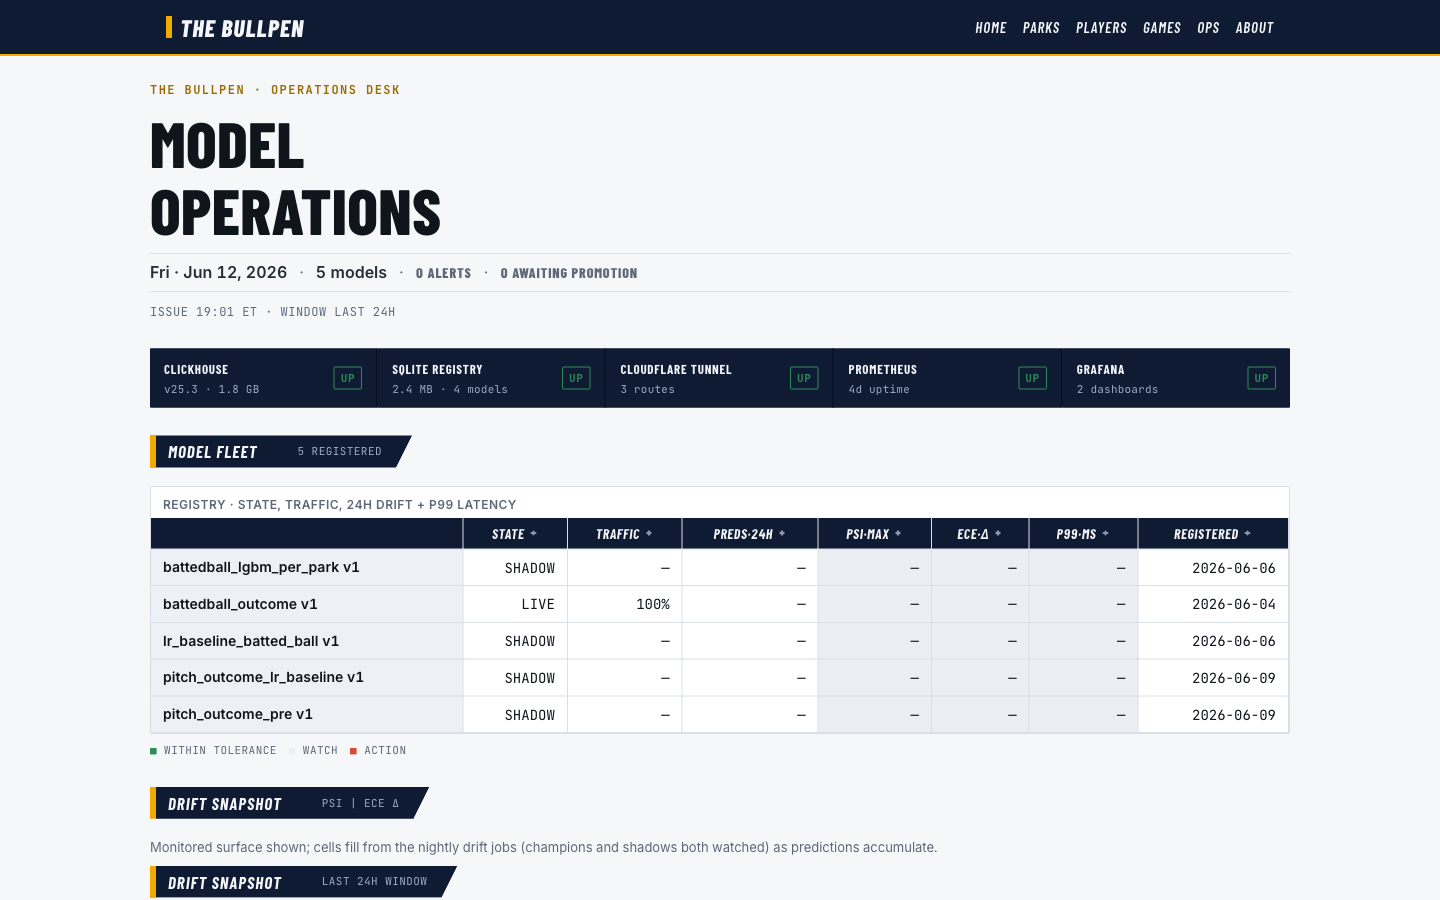
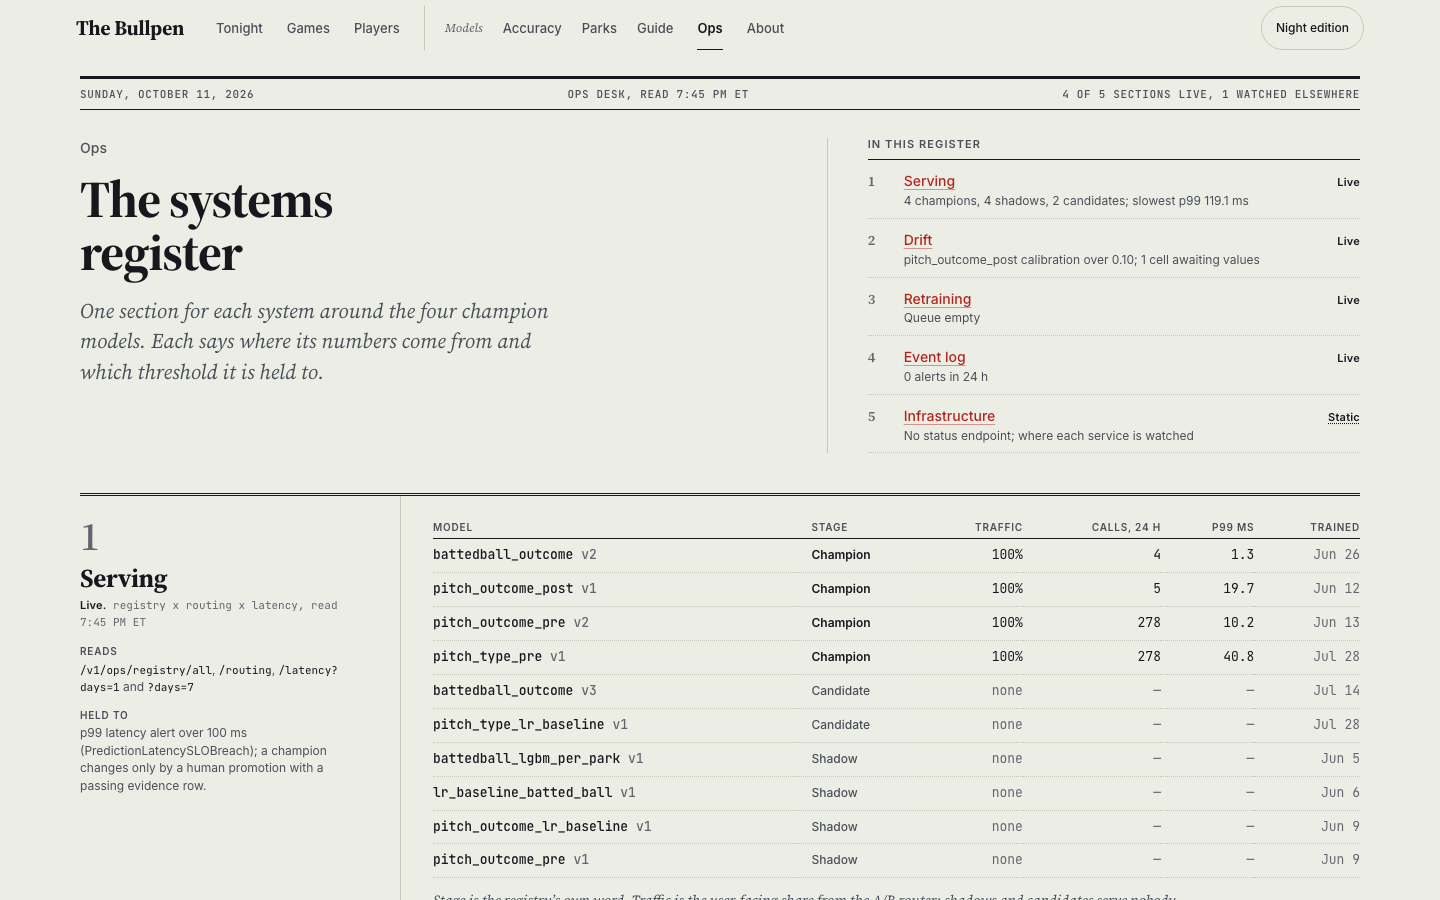
docs: close out the [195] editorial redesign across README, ADR-0017, design.md and screenshots
- README: editorial design-system bullet, live-vs-showcase block matches [206] (no fixture
  backfill), empty-stack wording, and a fresh 8-shot grid captured from the live site.
- ADR-0017: revision entry recording that [210]-[212] complete the migration.
- design.md: an as-built note under the locked page table (parks field, ops register,
  accuracy, guide, scoreboard).
- phase-status.json: the polish-pass entry records the [195] supersession.
- Retires four broadcast-era screenshots nothing current references.

Claude-Session: https://claude.ai/code/session_01A5jnPM5qimNyGasrBv9Fqz

diff --git a/README.md b/README.md
@@ -81,10 +81,10 @@ linked artifact disagree, the artifact wins.
   tests (future-contamination, shuffled-target, calendar-date trace, id-consistency)
   checked by fault injection, plus a real-ClickHouse SQL-path leakage gate where a skipped
   test fails the build. 2026 season data is holdout-only, fenced at three layers (rule 13).
-- **Broadcast-graphics design system** (Barlow Condensed / Inter / JetBrains Mono,
-  scorebug + lower-third telecast chrome) on a dark broadcast field with a light/dark
-  toggle ([191]/[192], ADR-0017). Token discipline is linted: a hex code in a component
-  file fails CI.
+- **Editorial "Front Page" design system** (Source Serif 4 / Inter / JetBrains Mono on a
+  newsprint paper ground, with a designed Night edition behind a light/dark toggle;
+  [195]-[212], ADR-0017). Token discipline is linted: a hex code in a component file fails
+  CI.
 - **Measured coverage, not a vibe**: line/branch coverage is published every CI run and
   gated on regression floors (backend JaCoCo under the Docker integration tests, frontend
   vitest v8, training coverage.py). The enforced floors live in
@@ -97,15 +97,16 @@ linked artifact disagree, the artifact wins.
 > **What's live vs. showcase (v1):** most of the app pulls real data from the Spring
 > backend - the per-game detail view (`/games/:id`) including the **live next-pitch panel**
 > (pre-pitch champion) and the **pitch-type panel** (calibrated prior), the player lookup +
-> `/players/:id` profile, the `/parks` HR-by-park heatmap, the home page's tonight slate,
-> the `/accuracy` scorecard + Live Retrospective, and the Ops dashboard's Model Fleet /
-> latency / retrain queue / ops log (live via `/v1/ops/*`, with a committed-fixture
-> fallback when those are empty or the backend is offline). Still pure showcase from
-> `frontend/src/data/*-fixtures.ts`: the `/parks` factor table, the `/about` colophon, the
-> `/players` landing's Featured Reports + Model Standouts, the `/players/:id` slug showcase
-> matchup, and the Ops infra ribbon. The Ops drift snapshot is live-wired to
-> `/v1/ops/drift` and renders an honest em-dash skeleton until `drift_metrics` fills in;
-> drill-tagged rows are labeled so a synthetic PSI spike is never shown as organic.
+> `/players/:id` profile, the `/parks` field explorer, the home page and `/games` slate,
+> the `/accuracy` report cards (with live 30-day reliability charts) + Live Retrospective,
+> and the Ops systems register's Serving / Drift / Retraining / Event log sections (live
+> via `/v1/ops/*`). When the backend cannot be read, the slate pages show a labelled
+> sample slate that says why, and Ops shows a registry-verified roster with every figure
+> em-dashed; an empty response is shown as empty, never backfilled ([206]). Still pure
+> showcase from `frontend/src/data/*-fixtures.ts`: the `/parks` factor table, the
+> `/players` landing's Featured Reports + Model Standouts, and the `/players/:id` slug
+> showcase matchup. Drill-tagged drift rows are labeled so a synthetic PSI spike is never
+> shown as organic.
 > See [Known limitations](#known-limitations) for the honest caveats.
 
 ## The 25-second tour
@@ -119,15 +120,17 @@ this repo's own tokens, fonts and components; source and build notes in
 
 ## Screenshots
 
-The live site ([thebullpen.net](https://thebullpen.net)):
+The live site ([thebullpen.net](https://thebullpen.net)), captured 2026-10-11 in the paper edition:
 
-|                                Tonight's slate                                 |                                         Ops dashboard                                         |
-| :----------------------------------------------------------------------------: | :-------------------------------------------------------------------------------------------: |
-|   [![Tonight's slate](docs/screenshots/home.png)](docs/screenshots/home.png)   |            [![Ops dashboard](docs/screenshots/ops.png)](docs/screenshots/ops.png)             |
-|                                 **Live game**                                  |                                     **Park HR explorer**                                      |
-|      [![Live game](docs/screenshots/game.png)](docs/screenshots/game.png)      |   [![Park HR explorer](docs/screenshots/parks-full.jpeg)](docs/screenshots/parks-full.jpeg)   |
-|                               **Player search**                                |                                      **Player profile**                                       |
-| [![Player search](docs/screenshots/players.png)](docs/screenshots/players.png) | [![Player profile](docs/screenshots/player-ohtani.jpeg)](docs/screenshots/player-ohtani.jpeg) |
+| Tonight's slate | The games board |
+| :---: | :---: |
+| [![Tonight's slate](docs/screenshots/home.png)](docs/screenshots/home.png) | [![The games board](docs/screenshots/games.png)](docs/screenshots/games.png) |
+| **Game page** | **Ops systems register** |
+| [![Game page](docs/screenshots/game.png)](docs/screenshots/game.png) | [![Ops systems register](docs/screenshots/ops.png)](docs/screenshots/ops.png) |
+| **Accuracy report cards** | **Park field explorer** |
+| [![Accuracy report cards](docs/screenshots/accuracy.png)](docs/screenshots/accuracy.png) | [![Park field explorer](docs/screenshots/parks.png)](docs/screenshots/parks.png) |
+| **Player index** | **Player file** |
+| [![Player index](docs/screenshots/players.png)](docs/screenshots/players.png) | [![Player file](docs/screenshots/player.png)](docs/screenshots/player.png) |
 
 ## The models, honestly
 
@@ -174,9 +177,9 @@ cd ../training && uv sync && OMP_NUM_THREADS=1 uv run python -m pytest
 
 **What works with an empty stack.** The backend boots against an empty ClickHouse with no
 registered ONNX model: the predict endpoints return a documented `503` (no live champion,
-not a crash), and every read surface (`/v1/ops/*`, players, parks, games) falls back to
-committed fixtures - so the SPA and the Ops dashboard render end-to-end before you have any
-data or models. Real predictions need the historical Statcast pull plus a
+not a crash), and every page degrades to a labelled state (a sample slate that says the
+backend is unreachable, a registry-verified Ops roster with figures em-dashed) - so the SPA
+and the Ops register render end-to-end before you have any data or models. Real predictions need the historical Statcast pull plus a
 trained-and-registered model, which is the self-hosted box workflow (ADR-0006), not the
 local quickstart.
 
@@ -396,7 +399,7 @@ redistributed.**
   that should lift the ordering is staged but not yet shipped. Treat per-park batted-ball
   numbers as directional, not calibrated, until that gate is green - see
   [`docs/cross-park-fidelity-plan.md`](docs/cross-park-fidelity-plan.md). The `/parks`
-  heatmap and the model guide surface this physics-estimate framing (and the rho gap)
+  field explorer and the model guide surface this physics-estimate framing (and the rho gap)
   directly to users rather than presenting raw P(HR) as fact (decision [163]).
 - **Automated retraining is wired and proven, but only one model deep.**
   `battedball_outcome` retrains end-to-end (the 2026-07-15 unattended proof above); every

diff --git a/docs/adr/0017-frontend-rework-ia-and-craft.md b/docs/adr/0017-frontend-rework-ia-and-craft.md
@@ -83,3 +83,4 @@ The home page leads with the display-scale "Tonight's Slate" treatment, an ident
 
 - **2026-10-09** - Visual identity superseded in part by decision [195]. Section 1 (dark broadcast field as the committed ground, already softened by [192]'s light/dark toggle) and the [160] broadcast identity this ADR evolved within (Barlow Condensed display, angled-chip/clip-path kit, gold accent) are replaced by an editorial "Front Page" identity: Source Serif 4 display, Inter body, JetBrains Mono for figures, warm paper ground as the default with a designed dark variant behind the [192] toggle, one scorecard-red accent. Trigger: the 2026-10 craft pass within [160] (PR #501) read to the owner as "very little change"; of three rendered home directions the owner chose the editorial one. The IA sections stand unchanged: journey-order navigation with the Models group (2), the game-page temporal hierarchy (3), the Model Guide page (4), About as a slim colophon (5), and home as portfolio landing (6). Migration is whole-app, home first. Status updated to reflect the partial supersession.
 - **2026-10-11** - §4 (Model Guide) amended by decision [208]: the Guide no longer renders on an always-light paper surface; under [195] every page is paper by default with a designed night edition, so the reading-surface distinction is carried by layout, not palette, and the Guide follows the [192] toggle. The anchor contract gains `#post-pitch`. §5 (About) is implemented by [209]: the facts ribbon became build-time-derived counts. Status unchanged (already partially superseded by [195]).
+- **2026-10-11** - The [195] migration is complete on every page: /games became "the scoreboard" ([210]) and the 404 page moved to the editorial grammar ([211]), and the [160] broadcast component layer (LowerThird, PageChrome, SlateBoard, SegmentedToggle, broadcast.css, cellColor) is deleted ([212]). `design/broadcast.ts` remains until its own retirement spec, because the Mantine theme, the teamColors fallback, App.tsx motion values and the error boundary still read it. The IA sections (2)-(6) stand. Status unchanged.

diff --git a/docs/design.md b/docs/design.md
@@ -924,6 +924,16 @@ Three reference layouts anchor the system (styling in §8):
 | **Ops Dashboard**           | **Analytical (recruiter-facing)** | **Model versions, A/B traffic split, drift charts, retraining queue, reliability diagrams — same design system, dashboard density**                                                                                                                                                                    |
 | About / Methodology         | Editorial sheet                   | What the models do, training data, eval methodology, "v2 ideas"; long-form reading column inside the report chrome                                                                                                                                                                                     |
 
+> **As built (2026-10-11).** The page set above is the original lock; the shipped pages
+> grew from it. Park Explorer is now "The field" ([203]/[204]): an ink field drawing that
+> follows the launch sliders, a count of parks at P(HR) >= .50 and a 30-dot strip, not a
+> heatmap. The Ops Dashboard is "The systems register" ([205]-[207]): Serving, Drift,
+> Retraining, Event log and Infrastructure sections with source stamps, a roster-only offline
+> fallback, and no invented service status. /accuracy ([199]/[200]), /models/guide ([208]) and
+> the /games scoreboard ([210]) were added; About is "The back page" ([209]). The visual
+> identity is [195]'s editorial Front Page (see the note at the top of section 8), and the
+> dark-mode exclusion below was reversed by [192].
+
 Conspicuously not in scope: leaderboards, team pages, social features,
 comments, fantasy integration, betting, mobile app, dark mode toggle, i18n.
 

diff --git a/docs/hiring/README.md b/docs/hiring/README.md
@@ -17,7 +17,7 @@ hiring audience. Different work, separate time block.
 | Lessons-learned             | skeleton | [`lessons-learned.md`](lessons-learned.md) — fills during operation                                                                                                                       |
 | 60-second verbal pitch      | drafted  | [`60-second-pitch.md`](60-second-pitch.md)                                                                                                                                                |
 | OSS PR (≥ 1 merged)         | struck   | criterion struck by decision [193] - the track (clickhouse-java investigation, LightGBM PR) was pursued honestly and deliberately ended; the targets file was deleted with it             |
-| Hero screenshot of /parks   | shipped  | [`docs/screenshots/parks-full.jpeg`](../screenshots/parks-full.jpeg) - in the root README grid                                                                                            |
+| Hero screenshot of /parks   | shipped  | [`docs/screenshots/parks.png`](../screenshots/parks.png) - in the root README grid                                                                                            |
 | Recruiter-time-test         | pending  | non-baseball friend reads README in 60 s and gets it                                                                                                                                      |
 
 ## Gated vs author-now
